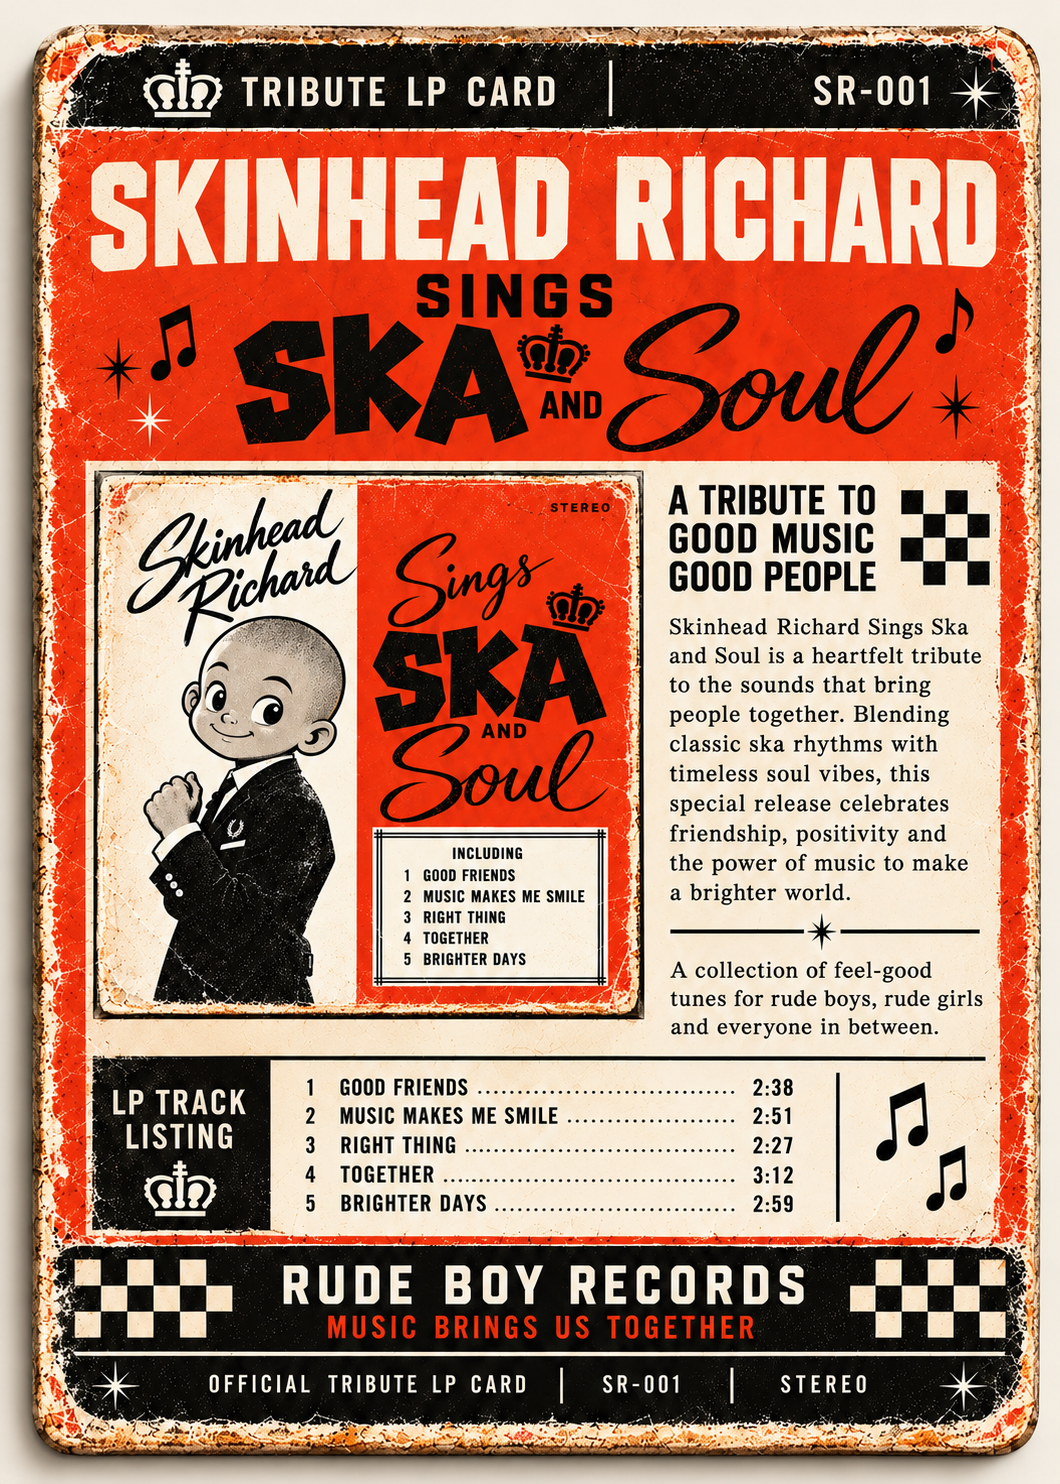
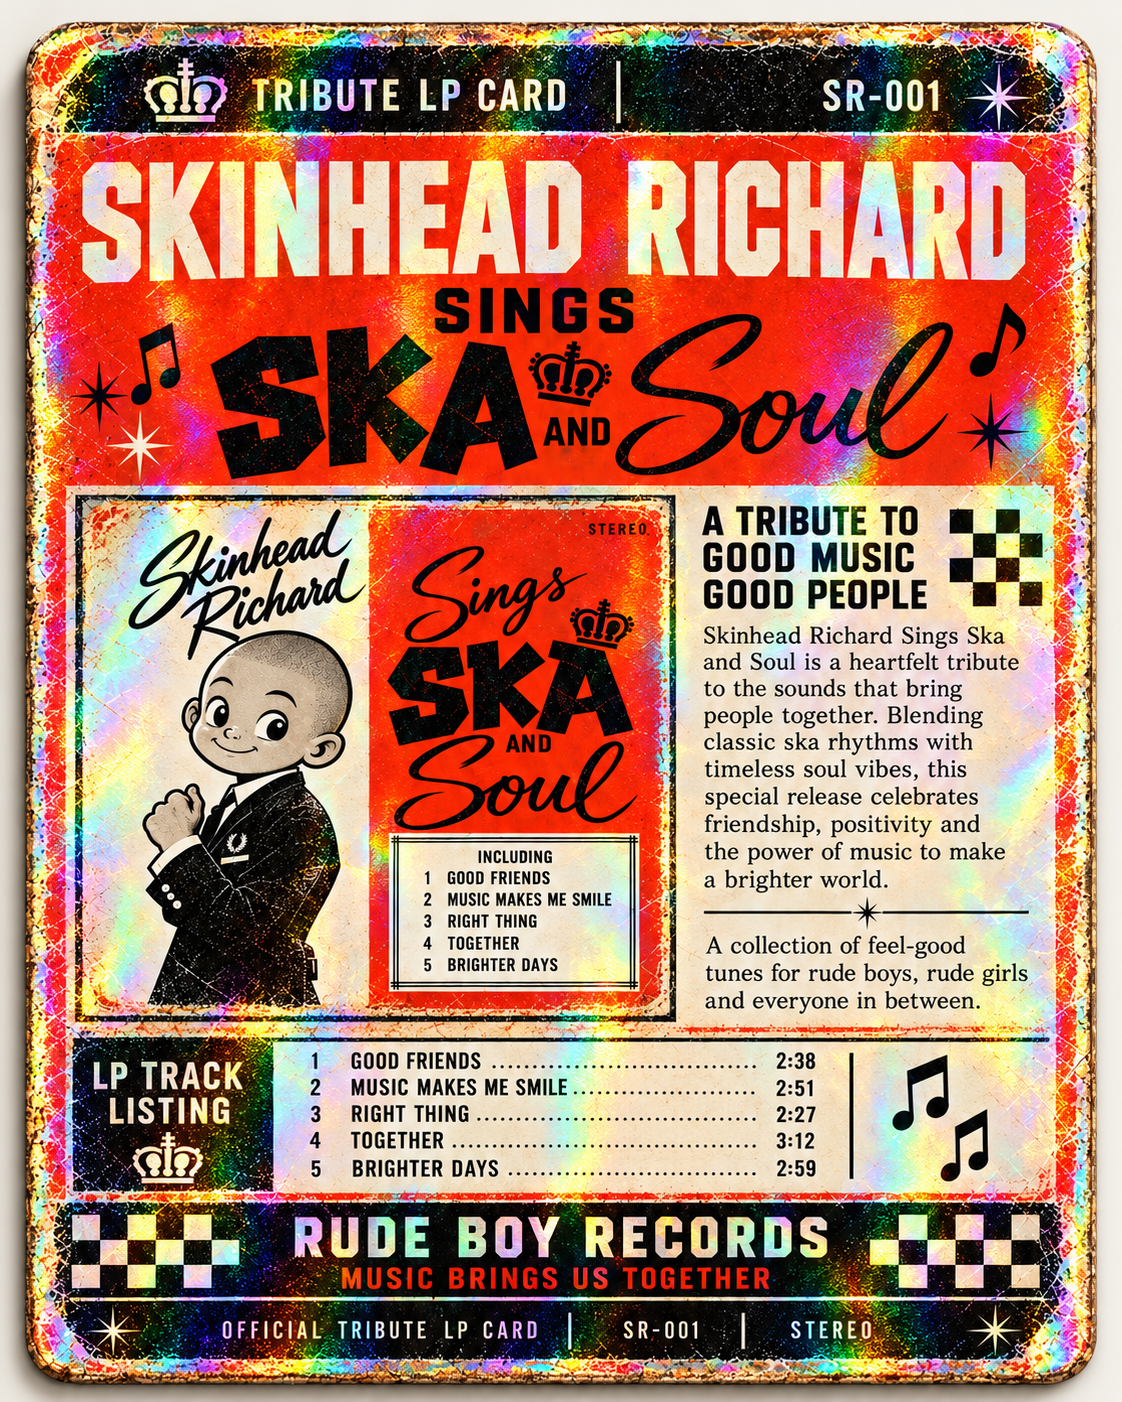
Add files via upload

diff --git a/index.html b/index.html
@@ -1,41 +1,87 @@
-<!DOCTYPE html>
+<!doctype html>
 <html lang="en">
 <head>
-  <meta charset="UTF-8" />
-  <meta name="viewport" content="width=device-width,initial-scale=1,viewport-fit=cover" />
-  <meta name="theme-color" content="#12100f" />
-  <title>Skinhead Richard • Tribute LP Card SR-001</title>
-  <style>
-    :root{color-scheme:dark;--orange:#ff651a;--cream:#fff0d9}
-    *{box-sizing:border-box} body{margin:0;min-height:100vh;background:radial-gradient(ellipse at 50% 25%,#3c2119 0%,#161313 50%,#080808 100%);font-family:system-ui,-apple-system,BlinkMacSystemFont,"Segoe UI",sans-serif;color:var(--cream);text-align:center}
-    header{padding:20px 14px 4px} .eyebrow{color:#ff9b65;letter-spacing:.16em;font-size:.7rem;font-weight:800} h1{font-size:clamp(1.15rem,4vw,1.8rem);line-height:1.15;margin:7px auto 4px;max-width:580px} .sub{font-size:.86rem;opacity:.8;margin:4px}
-    main{width:min(100%,560px);margin:auto;padding:8px 18px 28px} .scene{perspective:1400px;margin:auto;width:min(100%,375px);aspect-ratio:0.78;touch-action:manipulation;cursor:pointer;outline:none;display:block;position:relative} .scene:focus-visible{outline:3px solid var(--orange);outline-offset:6px;border-radius:16px}
-    .card{position:relative;width:100%;height:100%;-webkit-transform-style:preserve-3d;transform-style:preserve-3d;transition:transform .95s cubic-bezier(.2,.7,.15,1)} .scene.flipped .card{transform:rotateY(180deg)} .side{position:absolute;inset:0;backface-visibility:hidden;-webkit-backface-visibility:hidden;overflow:hidden;border-radius:5%;background:#1f1512;box-shadow:0 20px 18px #0009} .side.back{transform:rotateY(180deg)} img{width:100%;height:100%;object-fit:contain;display:block;user-select:none;-webkit-user-drag:none}
-    .hint{font-size:.8rem;color:#dbc2ad;margin:16px 0 12px} .actions{display:flex;flex-wrap:wrap;justify-content:center;gap:9px} button,.save{background:#231916;border:1px solid #a35c3a;border-radius:10px;color:#fff0d9;padding:11px 13px;font:inherit;font-size:.86rem;font-weight:700;text-decoration:none;cursor:pointer;min-width:118px} button:hover,.save:hover{background:#502519;border-color:var(--orange)} button:focus-visible,.save:focus-visible{outline:3px solid var(--orange);outline-offset:3px} .primary{background:#b84315;border-color:#ff9c64} .primary:hover{background:#d65a25} .check{color:#ffbe91;font-size:.73rem;margin:18px 5px 0}
-    @media (prefers-reduced-motion:reduce){.card{transition:none}}
-  </style>
+<meta charset="utf-8">
+<meta name="viewport" content="width=device-width, initial-scale=1, viewport-fit=cover">
+<meta name="theme-color" content="#101010">
+<meta name="description" content="Skinhead Richard Sings Ska and Soul: SR-001 holographic tribute LP collectible card.">
+<title>SR-001 · Skinhead Richard Tribute LP Card</title>
+<style>
+:root { color-scheme:dark; --orange:#f15a24; --cream:#ffedca; }
+* { box-sizing:border-box; }
+html,body {min-height:100%;margin:0}
+body {background:radial-gradient(ellipse at 50% 19%,#382118 0,#161516 49%,#090909 100%);color:var(--cream);font-family:system-ui,-apple-system,BlinkMacSystemFont,'Segoe UI',sans-serif;display:flex;justify-content:center;min-height:100svh;overflow-x:hidden;}
+.page {width:min(100%,660px);padding:24px 15px 28px;text-align:center;}
+.eyebrow {font-size:.8rem;font-weight:900;letter-spacing:.18em;color:var(--orange);margin-bottom:8px}
+h1 {font-size:clamp(1.25rem,4.4vw,1.85rem);line-height:1.14;margin:0 0 6px;text-wrap:balance}
+.sub {margin:0 0 20px;color:#decdbd;font-size:.85rem}
+.scene {perspective:1400px;perspective-origin:50% 45%;display:grid;place-items:center;touch-action:pan-y;}
+.card {position:relative;width:min(100%,385px,calc((100svh - 230px)*.8));aspect-ratio:1122/1402;max-height:calc(100svh - 230px);min-width:200px;cursor:pointer;transform-style:preserve-3d;transform:rotateX(var(--rx,0deg)) rotateY(calc(var(--flip,0deg) + var(--ry,0deg)));transition:transform 900ms cubic-bezier(.2,.72,.13,1),filter .3s;filter:drop-shadow(0 24px 24px #000a);outline:none;user-select:none;-webkit-user-select:none;}
+.card:focus-visible {outline:3px solid #fff6;outline-offset:7px;border-radius:16px;}
+.card::after {content:"";position:absolute;inset:0;pointer-events:none;border-radius:5.8% / 4.7%;transform:translateZ(2px);background:linear-gradient(var(--light-angle,115deg),transparent 21%,rgba(255,255,255,.04) 35%,rgba(255,255,255,.33) 48%,rgba(255,255,255,.03) 54%,transparent 68%),repeating-linear-gradient(111deg,transparent 0 18px,rgba(99,238,255,.06) 19px,rgba(255,81,186,.07) 21px,transparent 23px);mix-blend-mode:screen;opacity:var(--shine,.38);}
+.face {position:absolute;inset:0;backface-visibility:hidden;-webkit-backface-visibility:hidden;overflow:hidden;border-radius:5.8% / 4.7%;box-shadow:inset 0 0 2px #fff4;}
+.face img {width:100%;height:100%;object-fit:cover;display:block;pointer-events:none;}
+.back {transform:rotateY(180deg);}
+.card.flipped {--flip:180deg;}
+.instructions {margin:13px auto 12px;font-size:.8rem;color:#cfc1b1}
+.controls {display:flex;flex-wrap:wrap;gap:8px;justify-content:center;margin:8px auto 5px}
+button,a.action {border-radius:9px;border:1px solid #cf6e37;background:#201b19;color:#fff3df;padding:11px 13px;font-size:.84rem;font-weight:800;letter-spacing:.01em;cursor:pointer;min-height:44px;text-decoration:none}
+button.primary {background:var(--orange);color:#15100f;border-color:var(--orange)}
+button:hover,a.action:hover {filter:brightness(1.2)}
+button:focus-visible,a.action:focus-visible {outline:3px solid white;outline-offset:3px}
+.note {margin:12px auto 0;color:#b7a99b;max-width:390px;font-size:.74rem;line-height:1.5}
+footer {font-size:.72rem;letter-spacing:.08em;margin-top:18px;color:#bda08a}
+@media (prefers-reduced-motion:reduce) {.card {transition-duration:.01ms}}
+@media (max-height:690px) {.page{padding-top:10px}.sub{margin-bottom:8px}.instructions{margin:5px auto}.card{max-height:calc(100svh - 190px)}}
+</style>
 </head>
 <body>
-<header><div class="eyebrow">RUDE BOY RECORDS · SR-001</div><h1>Skinhead Richard Sings Ska and Soul</h1><p class="sub">Collectible Tribute LP Card · Tap to flip</p></header>
-<main>
-  <div class="scene" id="scene" role="button" tabindex="0" aria-label="Flip the tribute LP card to view the other side" aria-pressed="false">
-    <div class="card"><div class="side front"><img src="front.png" alt="Front of Skinhead Richard Sings Ska and Soul collectible LP card"></div><div class="side back"><img src="back.png" alt="Back of Skinhead Richard Sings Ska and Soul collectible LP card"></div></div>
+<main class="page">
+  <div class="eyebrow">OVERPRODUCTIVE SKINHEAD · SR-001</div>
+  <h1>SKINHEAD RICHARD<br>SINGS SKA AND SOUL</h1>
+  <p class="sub">Holographic Tribute LP Collectible</p>
+  <div class="scene" id="scene">
+    <div id="card" class="card" role="button" tabindex="0" aria-label="Flip collectible card" aria-pressed="false" title="Tap to flip">
+      <div class="face front"><img src="front.png" alt="Holographic tribute LP card front" draggable="false"></div>
+      <div class="face back"><img src="back.png" alt="Holographic tribute LP card back with album artwork and track list" draggable="false"></div>
+    </div>
   </div>
-  <p class="hint" id="status" aria-live="polite">Showing front · Automatically flips every 5 seconds</p>
-  <div class="actions"><button type="button" class="primary" id="flip">↻ Flip Card</button><button type="button" id="auto" aria-pressed="true">⏸ Pause Auto Flip</button></div>
-  <div class="actions" style="margin-top:10px"><a class="save" href="front.png" download="Skinhead_Richard_Tribute_LP_Front.png">↓ Save Front</a><a class="save" href="back.png" download="Skinhead_Richard_Tribute_LP_Back.png">↓ Save Back</a></div>
-  <p class="check">Vintage tribute artwork · A fictional collectible · Music brings us together</p>
+  <div class="instructions" id="status">Tap the card to flip · Move your finger to tilt</div>
+  <div class="controls">
+    <button class="primary" id="flipButton" type="button">↻ Flip card</button>
+    <button id="autoButton" type="button" aria-pressed="true">⏸ Auto flip: On</button>
+    <button id="saveButton" type="button">↓ Save showing side</button>
+  </div>
+  <p class="note">On iPhone, if Save opens the picture instead of downloading it, press and hold the picture and choose <strong>Save to Photos</strong>.</p>
+  <footer>RUDE BOY RECORDS · MUSIC BRINGS US TOGETHER</footer>
 </main>
 <script>
 (()=>{
- const scene=document.getElementById('scene'), flip=document.getElementById('flip'), auto=document.getElementById('auto'), status=document.getElementById('status');
- let flipped=false, playing=!window.matchMedia('(prefers-reduced-motion: reduce)').matches, timer=null;
- function display(){scene.classList.toggle('flipped',flipped);scene.setAttribute('aria-pressed',String(flipped));status.textContent=`Showing ${flipped?'back':'front'} · ${playing?'Automatically flips every 5 seconds':'Auto flip paused'}`;auto.setAttribute('aria-pressed',String(playing));auto.textContent=playing?'⏸ Pause Auto Flip':'▶ Resume Auto Flip'}
- function stop(){if(timer!==null){clearInterval(timer);timer=null}}
- function start(){stop();if(playing)timer=setInterval(()=>{if(document.visibilityState==='visible'){flipped=!flipped;display()}},5000)}
- function toggleFlip(){flipped=!flipped;display();start()}
- scene.addEventListener('click',toggleFlip);scene.addEventListener('keydown',e=>{if(e.key==='Enter'||e.key===' '){e.preventDefault();toggleFlip()}});flip.addEventListener('click',toggleFlip);
- auto.addEventListener('click',()=>{playing=!playing;display();start()});document.addEventListener('visibilitychange',()=>{if(document.visibilityState==='visible')start()});display();start();
+ 'use strict';
+ const card=document.getElementById('card'),scene=document.getElementById('scene');
+ const flipButton=document.getElementById('flipButton'),autoButton=document.getElementById('autoButton'),saveButton=document.getElementById('saveButton'),status=document.getElementById('status');
+ const reduced=window.matchMedia('(prefers-reduced-motion: reduce)').matches;
+ let flipped=false,auto=!reduced,tiltX=0,tiltY=0,lastInteract=Date.now();
+ const setTilt=(x,y)=>{tiltX=x;tiltY=y;card.style.setProperty('--rx',x.toFixed(2)+'deg');card.style.setProperty('--ry',y.toFixed(2)+'deg');card.style.setProperty('--light-angle',(115+y*2).toFixed(0)+'deg');card.style.setProperty('--shine',String(Math.max(.2,Math.min(.75,.35+Math.abs(x+y)/55))))};
+ const applyFlip=()=>{card.classList.toggle('flipped',flipped);card.setAttribute('aria-pressed',String(flipped));status.textContent=(flipped?'Back':'Front')+' side · Tap to flip · Drag to tilt'};
+ const flip=()=>{if(card.dataset.suppress==='yes')return;flipped=!flipped;lastInteract=Date.now();lastAuto=Date.now();applyFlip()};
+ const updateAuto=()=>{autoButton.textContent=auto?'⏸ Auto flip: On':'▶ Auto flip: Off';autoButton.setAttribute('aria-pressed',String(auto))};
+ card.addEventListener('click',flip);flipButton.addEventListener('click',flip);
+ card.addEventListener('keydown',e=>{if(e.key==='Enter'||e.key===' '){e.preventDefault();flip()}});
+ autoButton.addEventListener('click',()=>{auto=!auto;lastInteract=Date.now();updateAuto()});
+ // Auto-turns every 6 seconds, pausing during direct interaction and when hidden.
+ let lastAuto=Date.now();setInterval(()=>{if(!auto||document.hidden)return;if(Date.now()-lastInteract<3500)return;if(Date.now()-lastAuto>=6000){flipped=!flipped;applyFlip();lastAuto=Date.now()}},500);
+ let touching=false,moved=false,startX=0,startY=0;
+ const pointerTilt=(clientX,clientY)=>{const r=scene.getBoundingClientRect();const u=Math.max(-1,Math.min(1,(clientX-(r.left+r.width/2))/(r.width/2)));const v=Math.max(-1,Math.min(1,(clientY-(r.top+r.height/2))/(r.height/2)));setTilt(-v*10,u*13)};
+ scene.addEventListener('pointermove',e=>{if(e.pointerType==='mouse'||touching){pointerTilt(e.clientX,e.clientY);lastInteract=Date.now();if(touching&&Math.hypot(e.clientX-startX,e.clientY-startY)>12)moved=true}});
+ scene.addEventListener('pointerdown',e=>{touching=true;moved=false;startX=e.clientX;startY=e.clientY});
+ scene.addEventListener('pointerup',e=>{touching=false;if(moved){card.dataset.suppress='yes';setTimeout(()=>delete card.dataset.suppress,120)};setTilt(0,0)});
+ scene.addEventListener('pointerleave',()=>{touching=false;setTilt(0,0)});
+ 
+ if(!reduced){let tick=0;setInterval(()=>{if(!document.hidden&&!touching&&Date.now()-lastInteract>4500){tick+=.06;setTilt(Math.sin(tick)*2.6,Math.cos(tick*.7)*3.2)}},80)}
+ const getSide=()=>flipped?'back.png':'front.png';
+ saveButton.addEventListener('click',()=>{const file=getSide();const link=document.createElement('a');link.href=file;link.download='Skinhead-Richard-SR001-'+(flipped?'Back':'Front')+'.png';document.body.append(link);link.click();link.remove();});
+ applyFlip();updateAuto();
 })();
 </script>
 </body>
